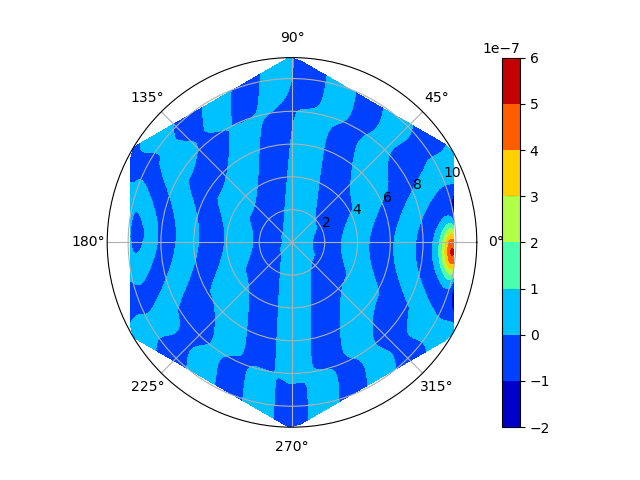
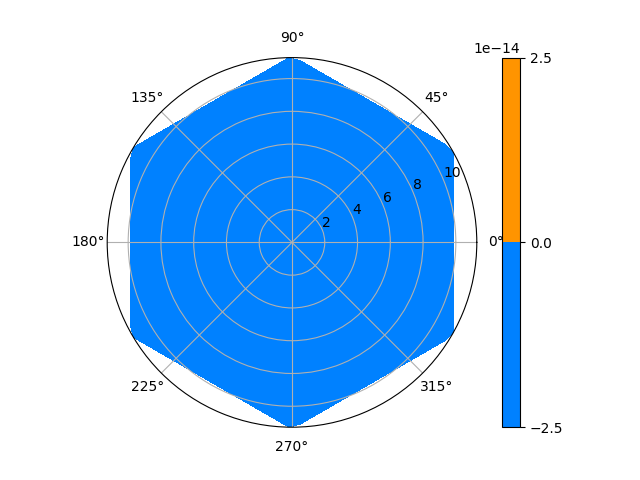
preliminary files, but the tallies are messed up

diff --git a/openmc-files/processing.py b/openmc-files/processing.py
@@ -1,24 +1,45 @@
+import openmc
+import pandas as pd
+import matplotlib.pyplot as plt
+import numpy as np
+
+# importing the filters
+from openmc.filter import MeshFilter, DistribcellFilter
+from openmc.filter_expansion import ZernikeFilter
+
 # post-processing
 ## getting scores
-sp = openmc.StatePoint('statepoint.1000.h5')
+sp = openmc.StatePoint('statepoint.10000.h5')
 
 for tally_key in sp.tallies:
     tally = sp.tallies[tally_key]
+    filter_type = type(tally.filters[0])
+    filter_ = tally.filters[0]
 
-    if tally.id == mesh_heat.id: mesh_heat_scores = tally
-    if tally.id == mesh_flux.id: mesh_flux_scores = tally
+    if filter_type == MeshFilter and tally.scores == ['kappa-fission']:
+        mesh_heat_scores = tally
+    if filter_type == MeshFilter and tally.scores == ['flux']:
+        mesh_flux_scores = tally 
 
-    if tally.id == distrib_heat.id: distrib_heat_scores = tally
-    if tally.id == distrib_flux.id: distrib_flux_scores = tally
+    if filter_type == DistribcellFilter and tally.scores == ['kappa-fission']:
+        distrib_heat_scores = tally
+    if filter_type == DistribcellFilter and tally.scores == ['flux']:
+        distrib_flux_scores = tally
 
-    if tally.id == zernike_heat.id: zernike_heat_scores = tally
-    if tally.id == zernike_flux.id: zernike_flux_scores = tally
+    if filter_type == ZernikeFilter and tally.scores == ['kappa-fission'] and filter_.num_sides == 0:
+        zernike_heat_scores = tally
+    if filter_type == ZernikeFilter and tally.scores == ['flux'] and filter_.num_sides == 0:
+        zernike_flux_scores = tally
 
-    if tally.id == polygon_heat.id: polygon_heat_scores = tally
-    if tally.id == polygon_flux.id: polygon_flux_scores = tally
-
+    if filter_type == ZernikeFilter and tally.scores == ['kappa-fission'] and filter_.num_sides == 6:
+        polygon_heat_scores = tally
+    if filter_type == ZernikeFilter and tally.scores == ['flux'] and filter_.num_sides == 6:
+        polygon_flux_scores = tally
 
 ## mesh
+mesh_len = 40
+mesh_dimensions = (mesh_len, mesh_len)
+
 mesh_heat_scores.std_dev.shape = mesh_dimensions
 mesh_heat_scores.mean.shape = mesh_dimensions
 
@@ -38,6 +59,11 @@ plt.close()
 
 ## distribcell is something to as novak about
 
+
+## zernike params
+pellet_diameter = 5.5685 / 10
+pin_pitch = 1.180 * pellet_diameter
+polygon_radius = pin_pitch * 3**(0.5) * 10
 
 ## circular zernike
 zernike_heat_df = zernike_heat_scores.get_pandas_dataframe()
@@ -75,10 +101,6 @@ plt.close()
 ### parameters
 num_sides = 6
 alpha = np.pi / num_sides
-
-pellet_diameter = 5.5685 / 10
-pin_pitch = 1.180 * pellet_diameter
-polygon_radius = pin_pitch * 3**(0.5) * 10
 
 ### getting data
 polygon_heat_df = polygon_heat_scores.get_pandas_dataframe()

diff --git a/openmc-files/abr.py b/openmc-files/abr.py
@@ -234,8 +234,8 @@ src1 = openmc.IndependentSource(space=point1)
 settings = openmc.Settings()
 settings.source = [src1]
 settings.particles = 10000
-settings.batches = 1000
-settings.inactive = 50
+settings.batches = 10000
+settings.inactive = 1000
 settings.export_to_xml()
 
 
